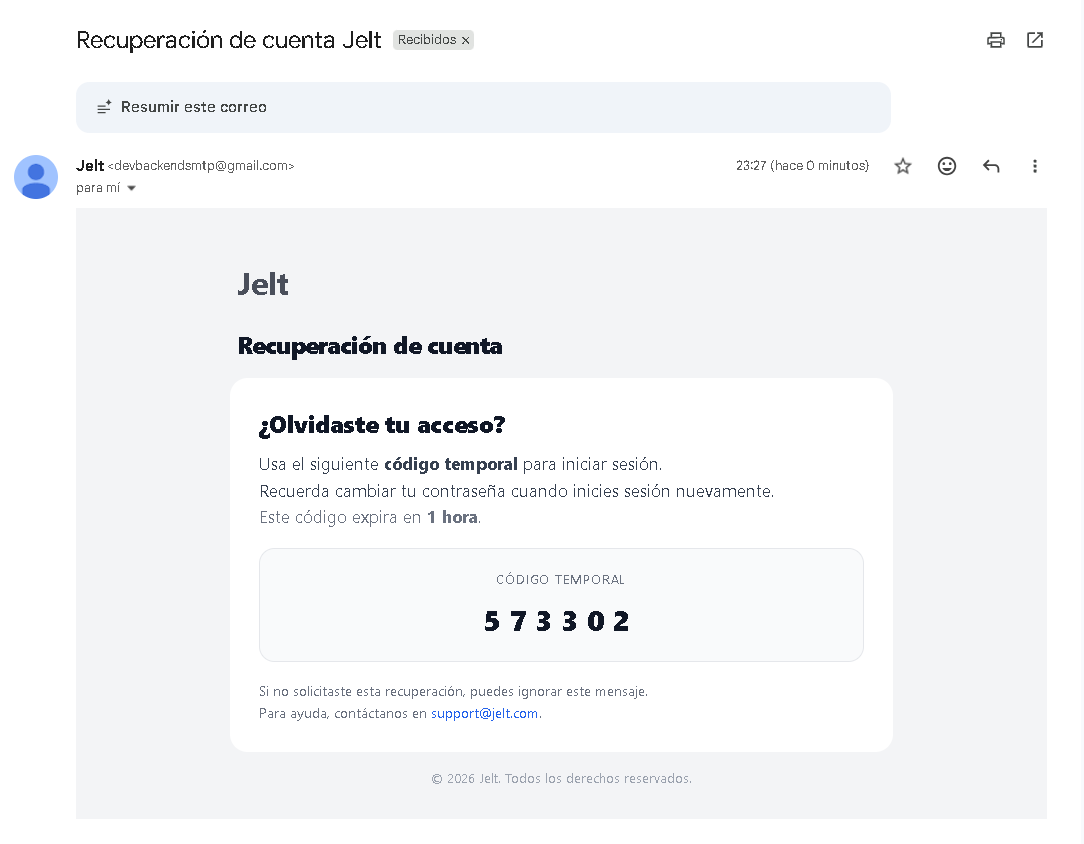
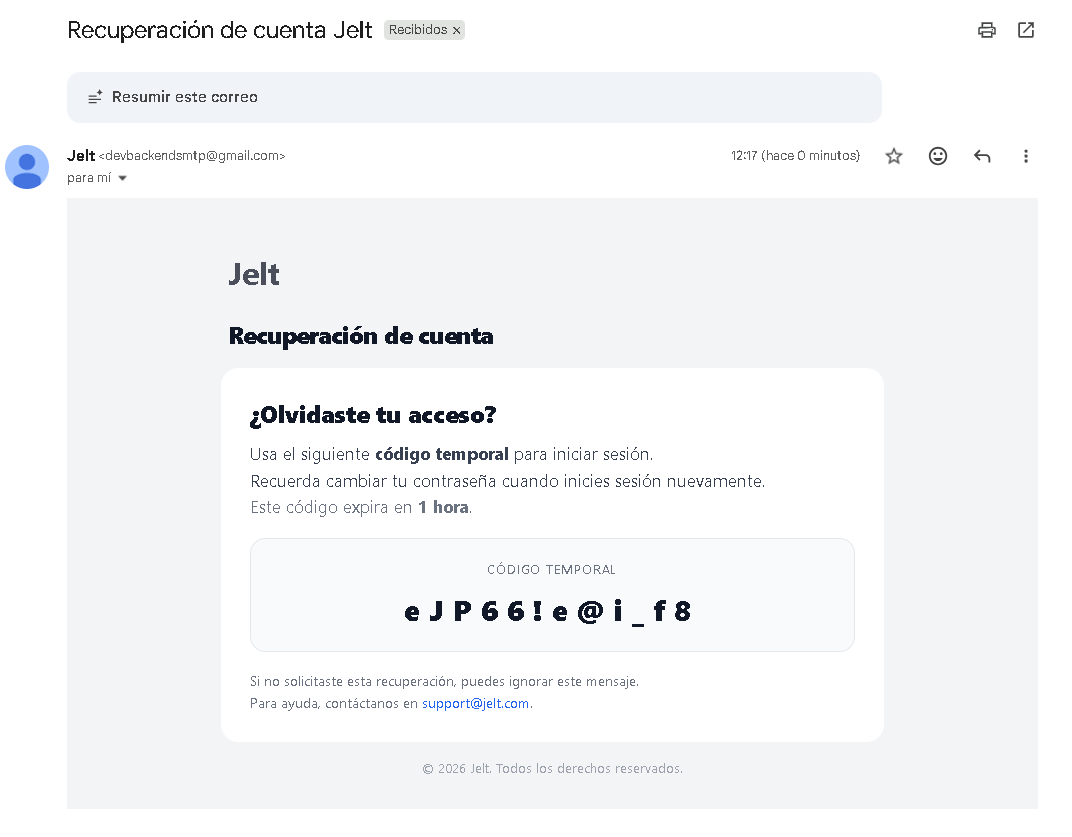
se actualiza README con los datos de ejemplo de correo con codigo temporal

diff --git a/README.md b/README.md
@@ -277,7 +277,7 @@ JSON
 
 El usuario verifica en su correo electronico. Una vez que sea recibido el codigo temporal debera usar el recurso /auth/login-temp para autenticarse en el sistema y posteriormente actualziar los datos de acceso.
 
-![alt text](image.png)
+![Ejemplo de mensaje con codigo temporal que podra usar como contraseña (solo sirve para un único uso)](image.png)
 
 ```
 Request
